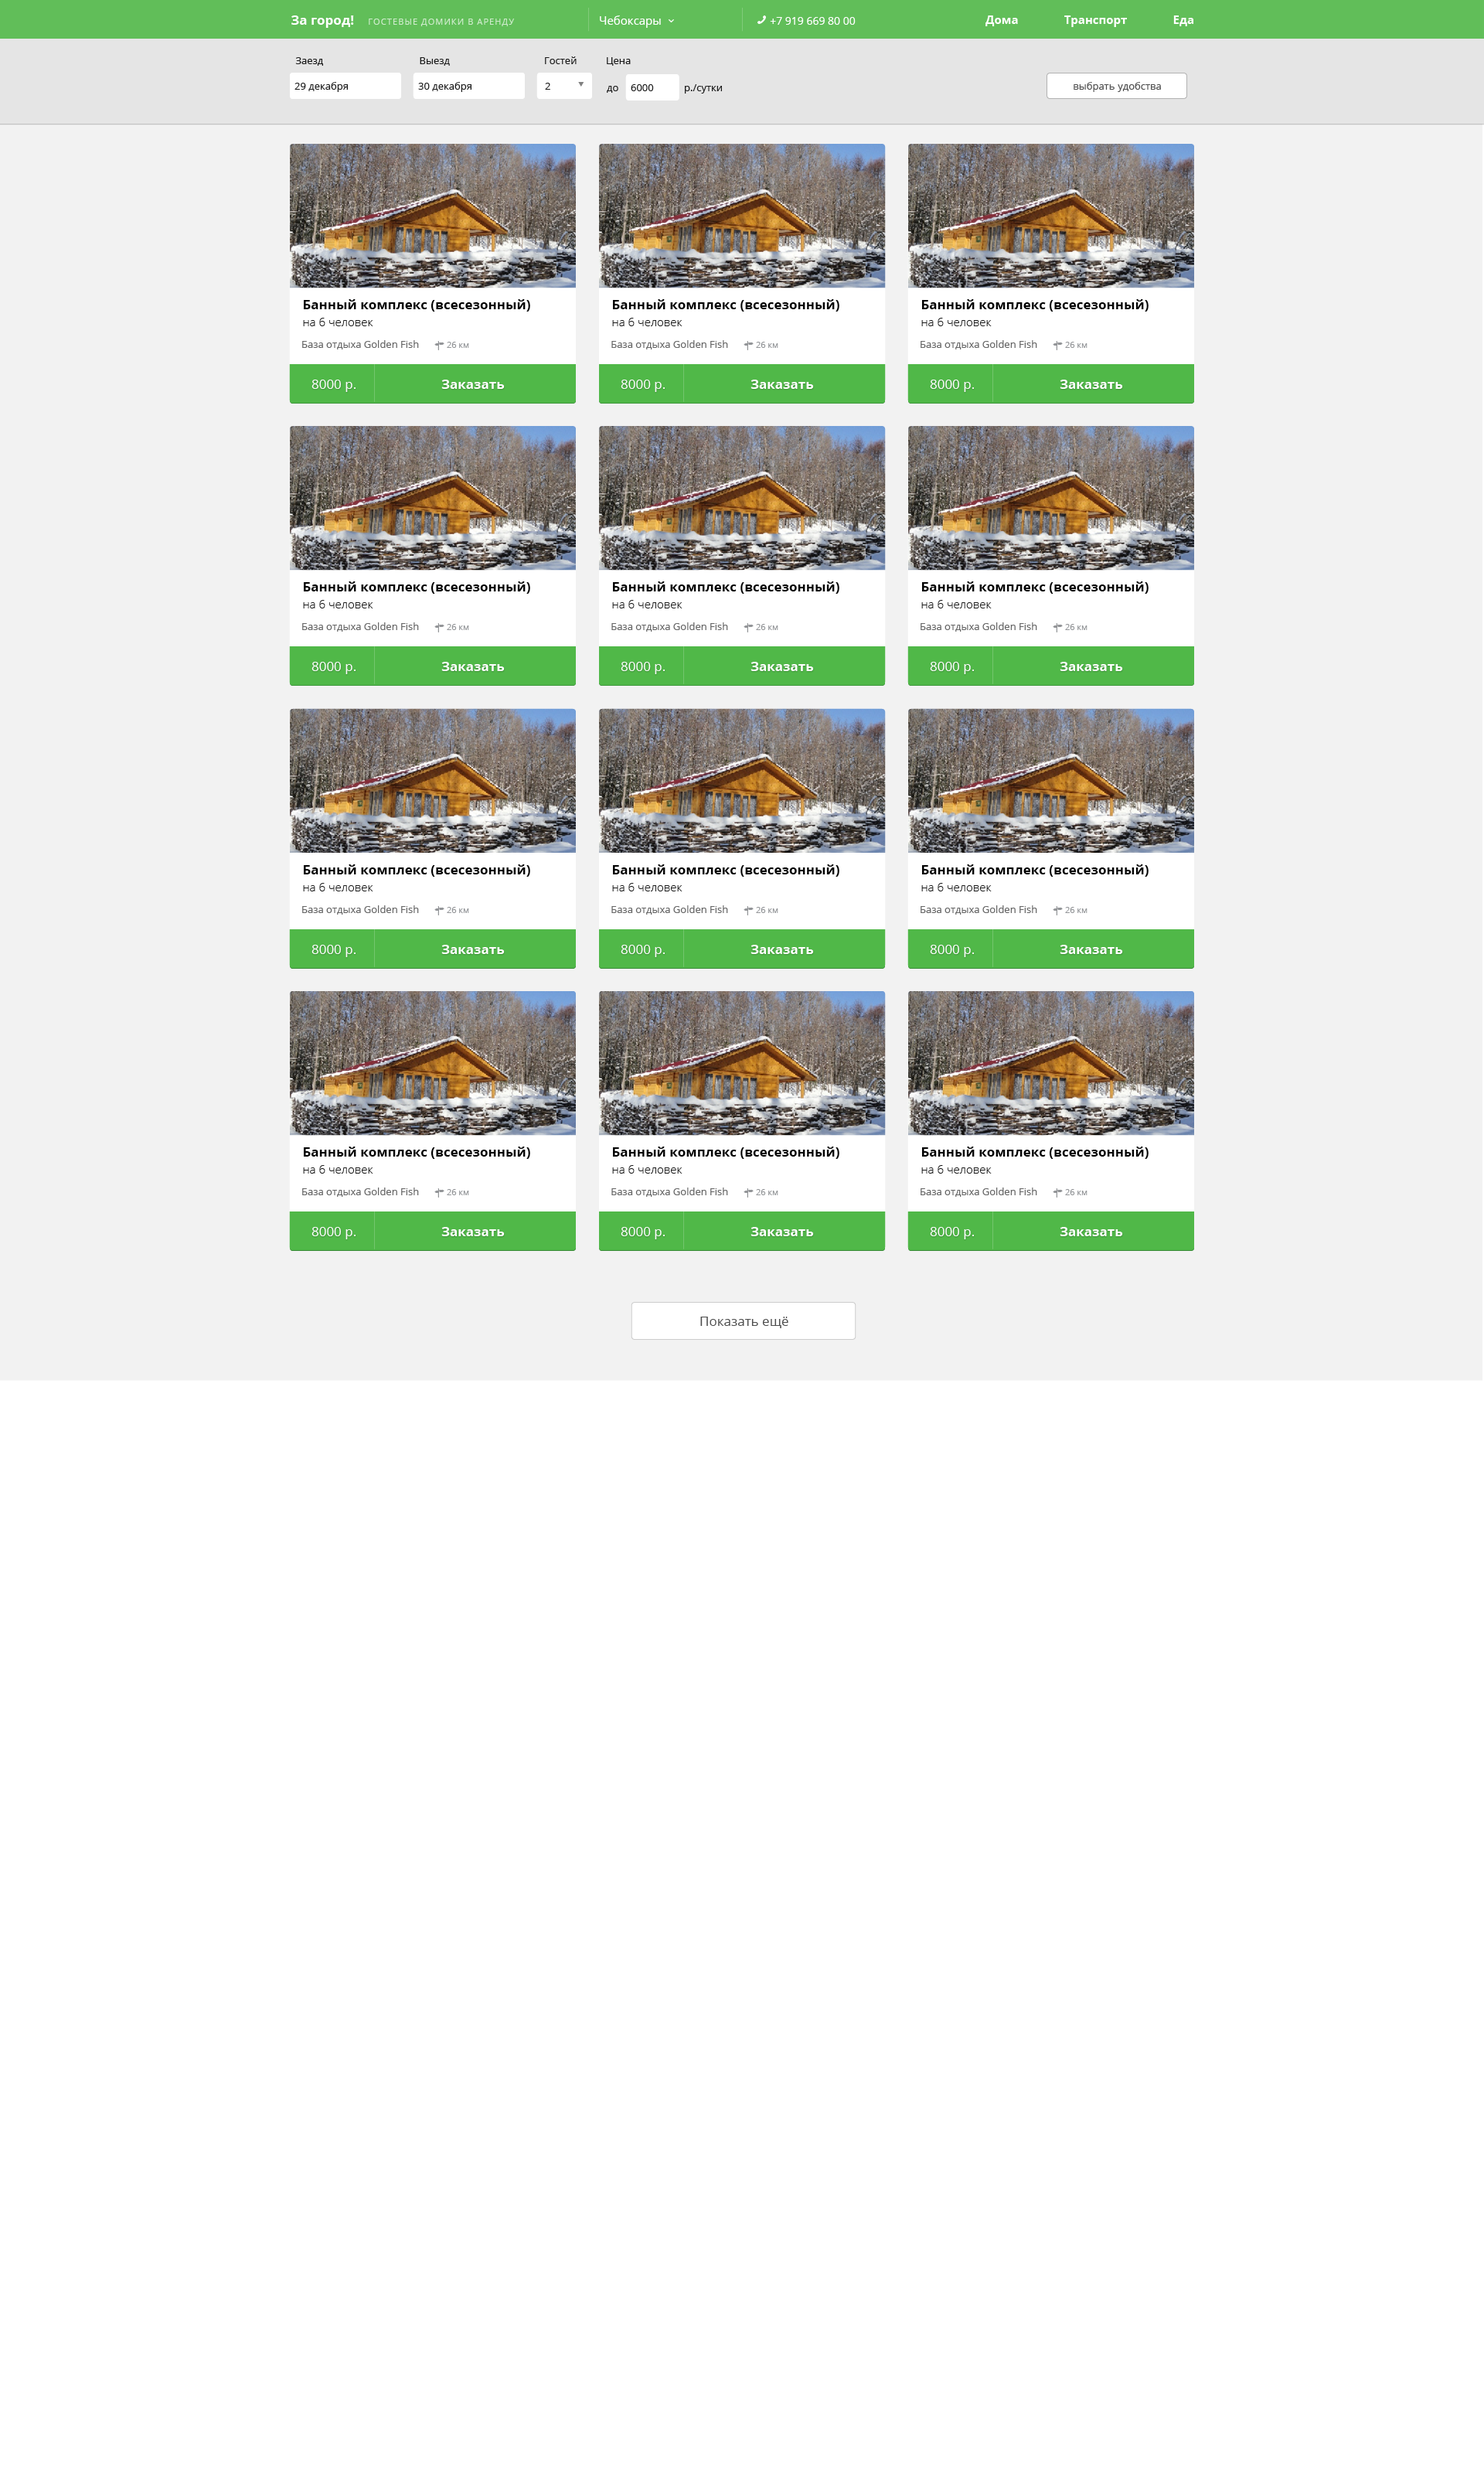
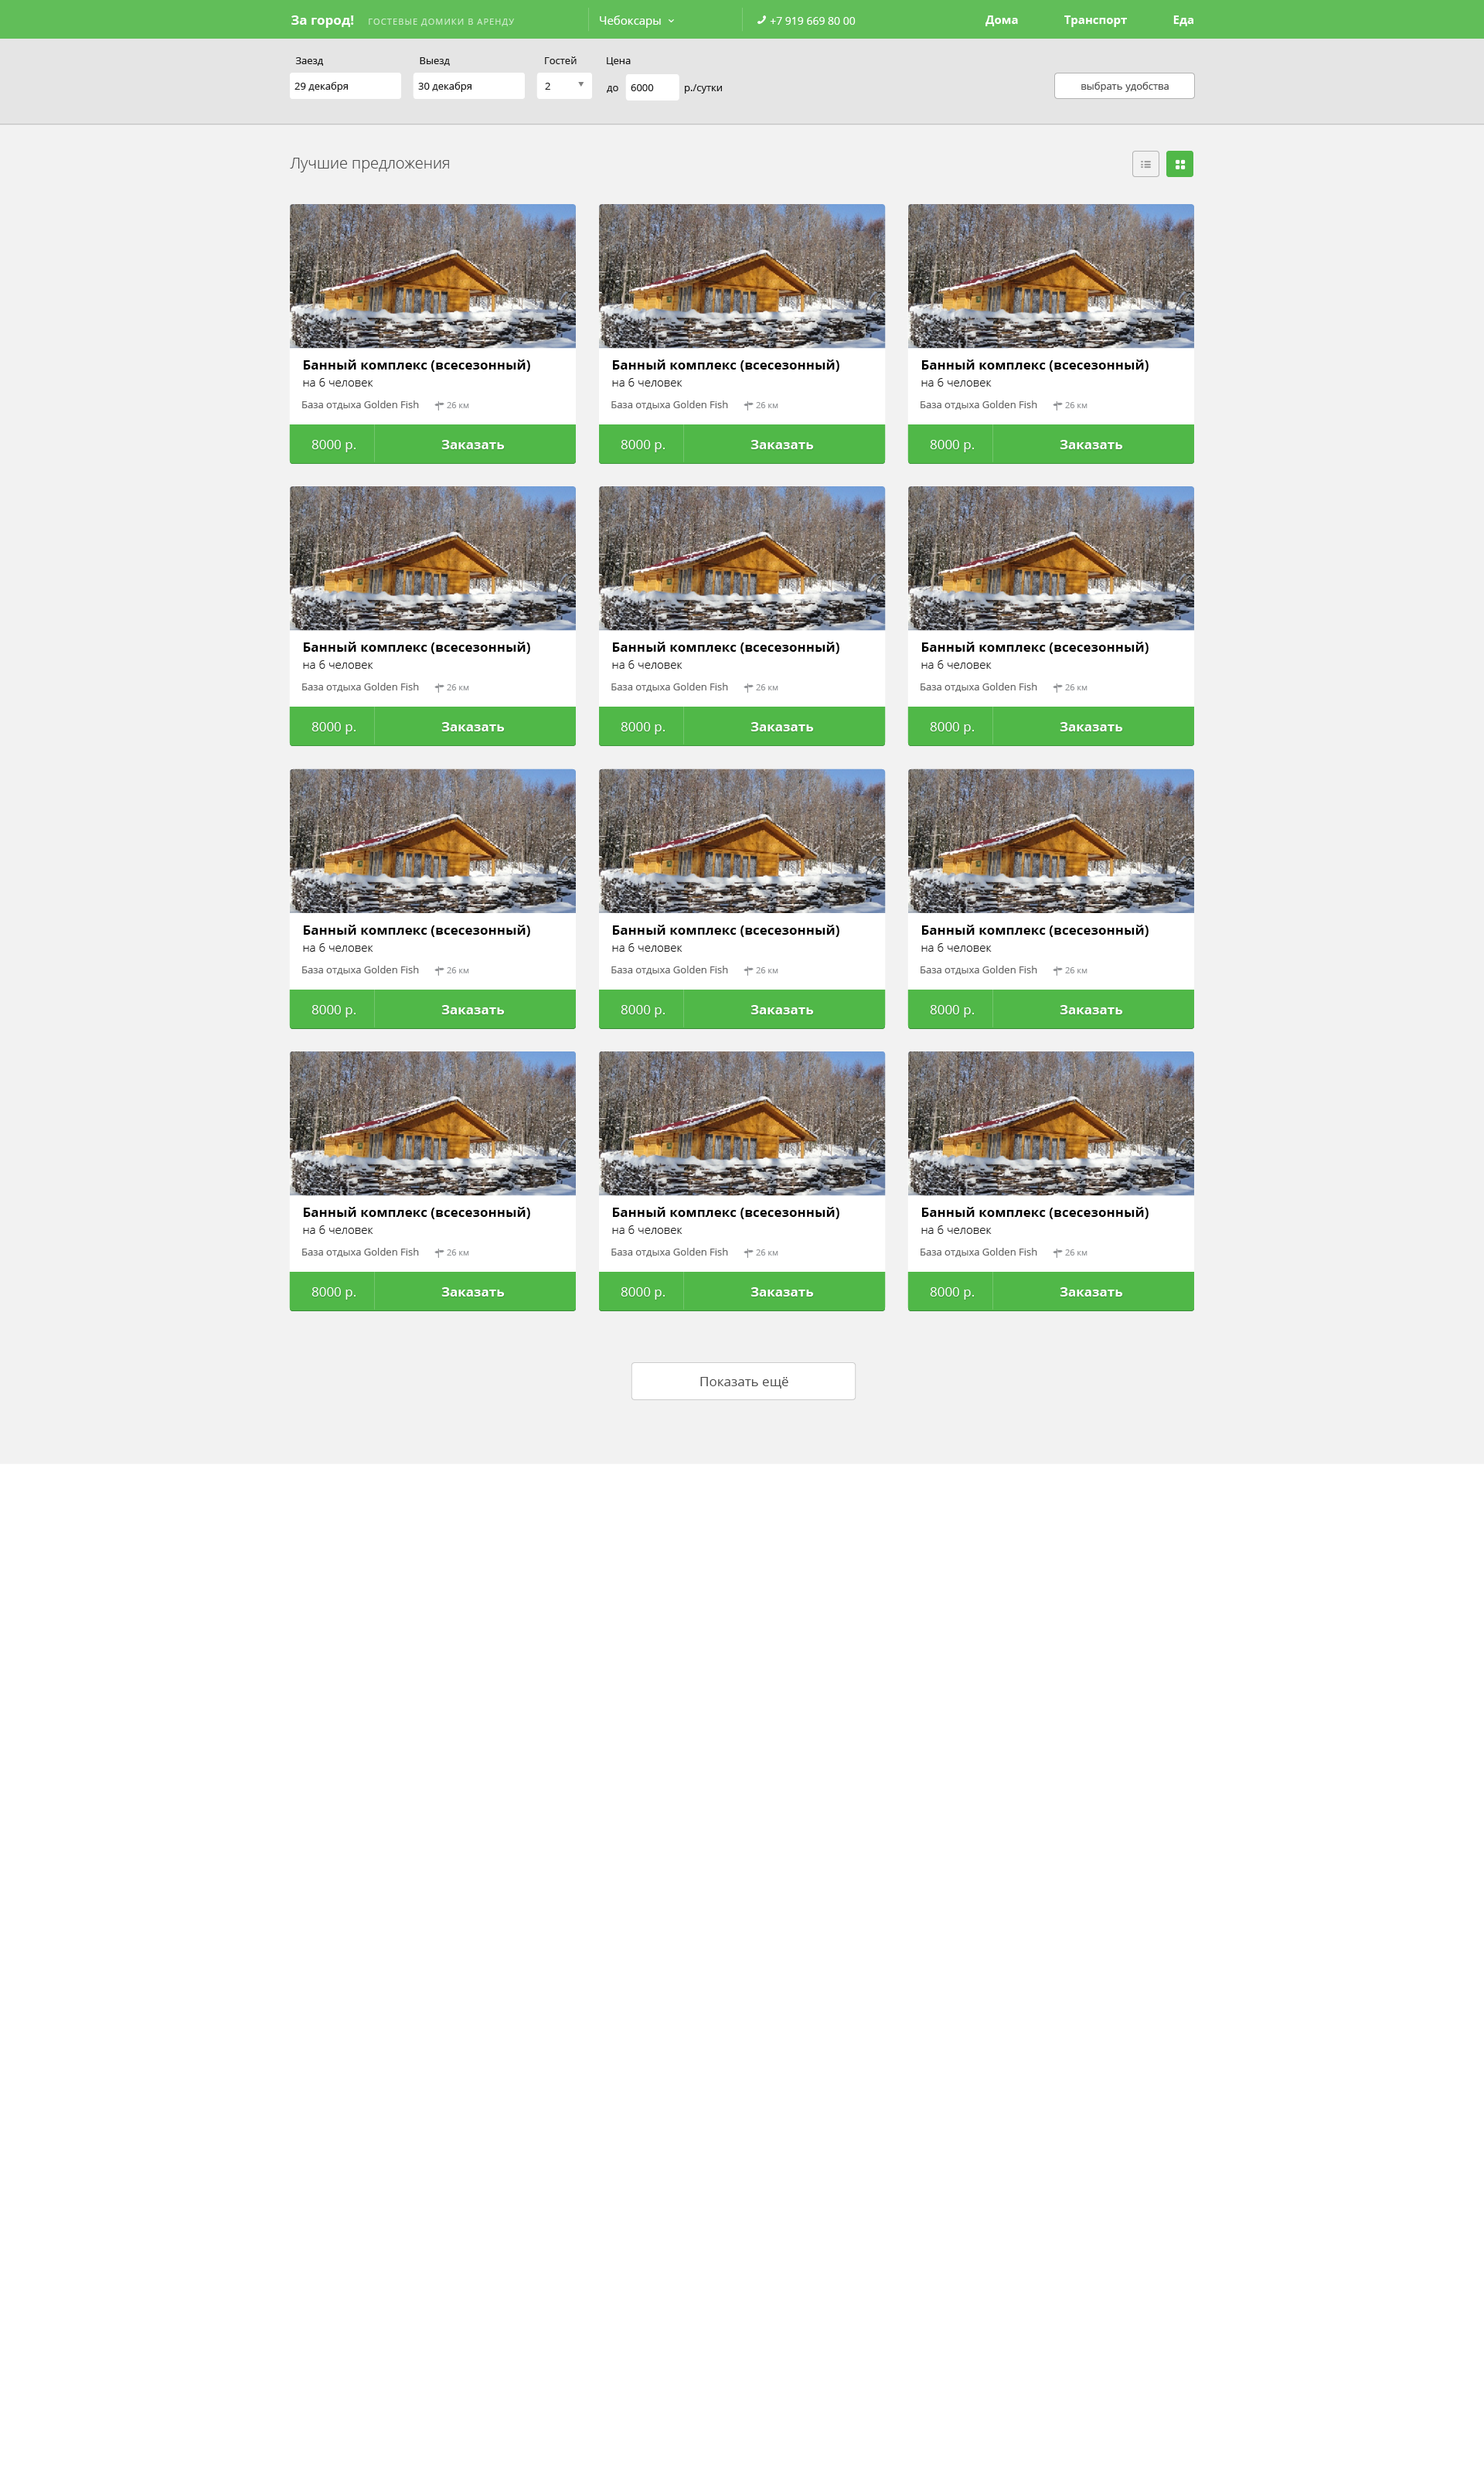
"Automated commit at 2014-03-12 07:23:18 UTC by middleman-deploy 0.1.4"

Changed region(s): [[0.1875, 0.0312, 0.8125, 0.5312]]

diff --git a/javascripts/backbone/models/show.js b/javascripts/backbone/models/show.js
@@ -1,1 +1,1 @@
-!function(){var e,t,n={}.hasOwnProperty,i=function(e,t){function i(){this.constructor=e}for(var r in t)n.call(t,r)&&(e[r]=t[r]);return i.prototype=t.prototype,e.prototype=new i,e.__super__=t.prototype,e};Afisha.Models.Show=function(t){function n(){return e=n.__super__.constructor.apply(this,arguments)}return i(n,t),n.prototype.paramRoot="show",n}(Backbone.Model),Afisha.Collections.ShowsCollection=function(e){function n(){return t=n.__super__.constructor.apply(this,arguments)}return i(n,e),n.prototype.model=Afisha.Models.Show,n.prototype.url="./data/shows.json",n.prototype.initialize=function(){return this.on("sync",this.build_collection)},n.prototype.build_collection=function(){var e;return e=this.last().get("response"),this.reset(e)},n}(Backbone.Collection)}.call(this);
+!function(){var o,t,n={}.hasOwnProperty,r=function(o,t){function r(){this.constructor=o}for(var e in t)n.call(t,e)&&(o[e]=t[e]);return r.prototype=t.prototype,o.prototype=new r,o.__super__=t.prototype,o};Afisha.Models.Show=function(t){function n(){return o=n.__super__.constructor.apply(this,arguments)}return r(n,t),n.prototype.paramRoot="show",n}(Backbone.Model),Afisha.Collections.ShowsCollection=function(o){function n(){return t=n.__super__.constructor.apply(this,arguments)}return r(n,o),n.prototype.model=Afisha.Models.Show,n.prototype.url="./data/shows.json",n.prototype.initialize=function(){return this.on("sync",this.build_collection)},n.prototype.build_collection=function(){var o;return o=this.last().get("response"),this.reset(o)},n}(Backbone.Collection)}.call(this);

diff --git a/javascripts/backbone/routes/app_router.js b/javascripts/backbone/routes/app_router.js
@@ -1,1 +1,1 @@
-!function(){var t,e={}.hasOwnProperty,n=function(t,n){function o(){this.constructor=t}for(var i in n)e.call(n,i)&&(t[i]=n[i]);return o.prototype=n.prototype,t.prototype=new o,t.__super__=n.prototype,t};Afisha.Routers.AppRouter=function(e){function o(){return t=o.__super__.constructor.apply(this,arguments)}return n(o,e),o.prototype.initialize=function(){return this.shows=this.fetchShows(),this.generateIndexView(this.shows)},o.prototype.generateIndexView=function(t){var e;return this.index_view||(this.index_view=new Afisha.Views.ShowsListView),e=this.index_view.render(t).el,$("@shows-list").html(e)},o.prototype.fetchShows=function(){var t;return t=new Afisha.Collections.ShowsCollection,t.fetch({async:!1}),t},o}(Backbone.Router)}.call(this);
+!function(){var t,o={}.hasOwnProperty,e=function(t,e){function n(){this.constructor=t}for(var r in e)o.call(e,r)&&(t[r]=e[r]);return n.prototype=e.prototype,t.prototype=new n,t.__super__=e.prototype,t};Afisha.Routers.AppRouter=function(o){function n(){return t=n.__super__.constructor.apply(this,arguments)}return e(n,o),n.prototype.initialize=function(){return this.shows=this.fetchShows(),this.generateIndexView(this.shows)},n.prototype.generateIndexView=function(t){var o;return this.index_view||(this.index_view=new Afisha.Views.ShowsListView),o=this.index_view.render(t).el,$("@shows-list").html(o)},n.prototype.fetchShows=function(){var t;return t=new Afisha.Collections.ShowsCollection,t.fetch({async:!1}),t},n}(Backbone.Router)}.call(this);

diff --git a/index.html b/index.html
@@ -19,6 +19,7 @@
       <a class="btn btn-lg btn-block btn-link" href="zagorod_design_desktop_airbnb5.html">zagorod_design_desktop_airbnb5.png</a>
       <a class="btn btn-lg btn-block btn-link" href="zagorod_design_desktop_airbnb6.html">zagorod_design_desktop_airbnb6.png</a>
       <a class="btn btn-lg btn-block btn-link" href="zagorod_design_desktop_airbnb7.html">zagorod_design_desktop_airbnb7.png</a>
+      <a class="btn btn-lg btn-block btn-link" href="zagorod_design_desktop_airbnb8.html">zagorod_design_desktop_airbnb8.png</a>
       <a class="btn btn-lg btn-block btn-link" href="zagorod_design_mobile.html">zagorod_design_mobile.png</a>
       <a class="btn btn-lg btn-block btn-link" href="zagorod_design_mobile2.html">zagorod_design_mobile2.png</a>
       <a class="btn btn-lg btn-block btn-link" href="zagorod_design_mobile3.html">zagorod_design_mobile3.png</a>

diff --git a/zagorod_design_desktop_airbnb8.html b/zagorod_design_desktop_airbnb8.html
@@ -11,7 +11,7 @@
     <link href='./stylesheets/application.css' media='screen' rel='stylesheet' type='text/css'>
   </head>
   <body class='page'>
-    <a class='application-window clickable' href='zagorod_design_desktop_airbnb8.html' role='design-demo-image' style='background-image: url("images/demo/zagorod_design_desktop_airbnb7.png")'></a>
+    <a class='application-window clickable' href='zagorod_design_desktop_airbnb_grids.pdf.html' role='design-demo-image' style='background-image: url("images/demo/zagorod_design_desktop_airbnb8.png")'></a>
   </body>
 </html>
 <script src="/javascripts/application.js?1393236156" type="text/javascript"></script>
